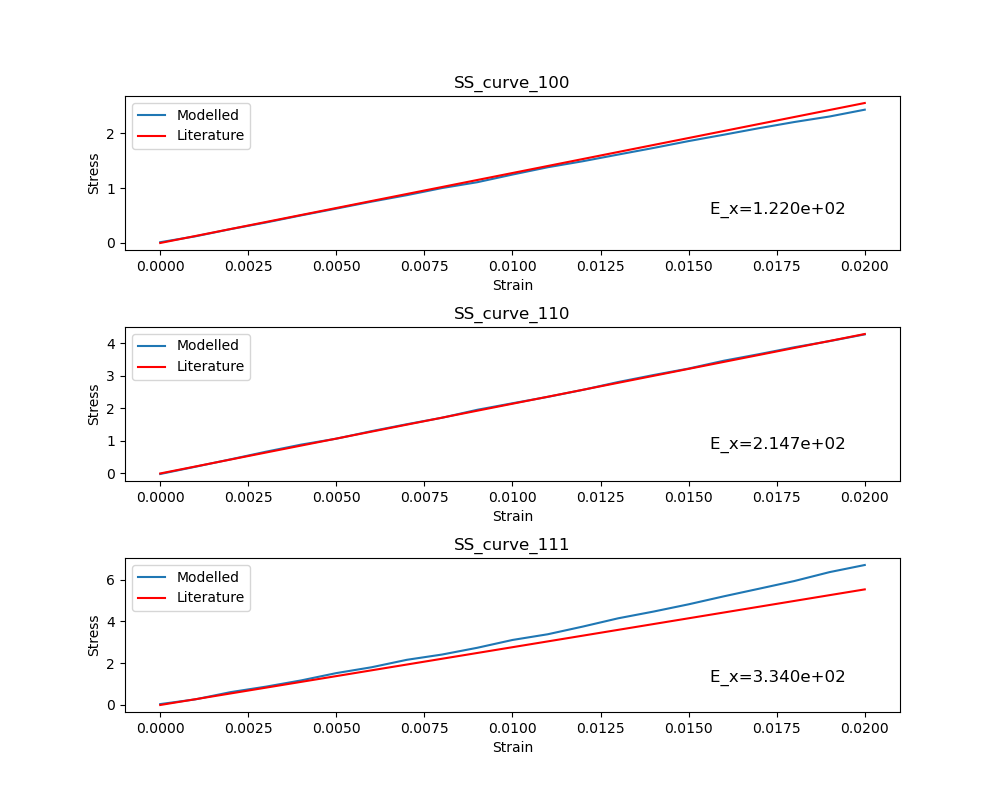
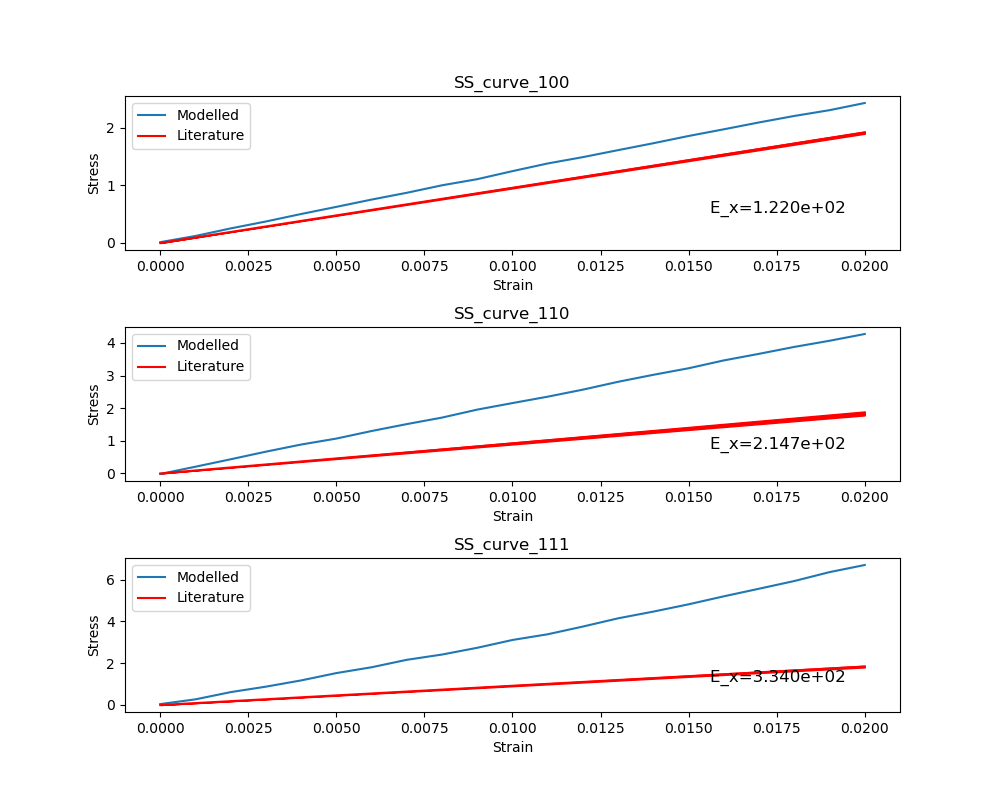
Adding uncertainty and literature values to post processing stress plots

diff --git a/HEA_compression/LMP_Files/Var1/Post_Process_4.py b/HEA_compression/LMP_Files/Var1/Post_Process_4.py
@@ -1,0 +1,119 @@
+### script to post process data
+# plot strain against temperature
+# calculate thermal expansion coeffecient
+
+import numpy as np
+import matplotlib.pyplot as plt
+
+DirPath = './HEA_compression/LMP_Files/Var1/'
+
+def LoadLAMMPSResTxt(filename, dim):
+    # load data
+    with open(filename, 'r') as lmps_file:
+        lmps_data = lmps_file.readlines()
+
+    # print(lmps_data)
+
+    # setting dimensions
+    [rows, columns] = dim
+
+    # create new array for results
+    lmps_table = np.empty((rows-1, columns))
+    for i in range(1,rows):
+        before, sep, after = lmps_data[i].partition(' ')
+        lmps_table[i-1, 0] = before
+        for j in range(1,columns-1):
+            before, sep, after = after.partition(' ')
+            lmps_table[i-1, j] = before
+        lmps_table[i-1, -1] = after
+
+    # print(lmps_table)
+    # create new nested list for titles
+    titles = [None] * columns
+    before, sep, after = lmps_data[0].partition('  ')
+    titles[0] = before
+    for j in range(1,columns-1):
+        before, sep, after = after.partition('  ')
+        titles[j] = before
+    before, sep, after = after.partition('  \n')
+    titles[-1] = before
+    # print(titles)
+    return lmps_table, titles
+
+# Loading all results
+FilePathArr = ['100/SS_curve_100.txt', '110/SS_curve_110.txt', '111/SS_curve_111.txt']
+Figure_Titles = ['SS_curve_100', 'SS_curve_110', 'SS_curve_111']
+numfile = 3
+res_rows = 22
+res_columns = 4
+
+Res_Read = np.empty((numfile, res_rows-1, res_columns)) # minus one to remove title rows
+Res_Col_Titles = titles = [None] * numfile
+for i in range(0, numfile):
+    FilePath = DirPath + FilePathArr[i]
+    Res_Read[i, :, :], Res_Col_Titles[i] = LoadLAMMPSResTxt(FilePath, [res_rows, res_columns])
+
+# getting Young's modulus (gradient)
+m = np.empty((numfile, 1, res_columns-1))
+c = np.empty((numfile, 1, res_columns-1))
+print(m.shape)
+for i in range(0, numfile):
+    for j in range(1,numfile):
+        m[i,0,j-1], c[i,0,j-1] = np.polyfit(Res_Read[i, :, 0], Res_Read[i,:,j], 1)  # 1 means linear fit
+
+print('m: ',m)
+print('c: ',c)
+
+# Create a figure with a numfilex1 grid of subplots
+fig, axs = plt.subplots(numfile, 1, figsize=(10, 8), gridspec_kw={'wspace': 0.5, 'hspace': 0.5})
+
+# looping the plotting
+text_x = 0.015
+text_y = 0.2
+# subscripts
+# for i in range(0, numfile):
+#     axs[i].plot(Res_Read[i, :, 0], Res_Read[i, :, 1:])
+#     axs[i].legend(Res_Col_Titles[i][1:])
+#     # figure titles and axes labels
+#     axs[i].set_title(Figure_Titles[i])
+#     axs[i].set_xlabel('Strain')
+#     axs[i].set_ylabel('Stress')
+#     # adding Young's Mod annotation
+#     label_text = f"""
+#     E_x={m[i,0,0]:.3e}
+#     E_y={m[i,0,1]:.3e}
+#     E_z={m[i,0,2]:.3e}
+#     """
+#     axs[i].text(text_x, text_y, label_text, fontsize=12)
+
+# literature values
+lit_val_HEA_E = np.array([96, 92, 92]) # GPa
+# uncertainty values (+/- xGPa)
+lit_val_HEA_Eu = np.array([1, 3, 2])
+
+
+# for stress x only
+for i in range(0, numfile):
+    axs[i].plot(Res_Read[i, :, 0], Res_Read[i, :, 1])
+    # plot literature values
+    axs[i].plot(Res_Read[i, :, 0], Res_Read[i, :, 0]*lit_val_HEA_E[i],'r')
+    # add shaded uncertainty region
+    axs[i].fill_between(Res_Read[i, :, 0], Res_Read[i, :, 0]*(lit_val_HEA_E[i] - lit_val_HEA_Eu[i]), Res_Read[i, :, 0]*(lit_val_HEA_E[i] + lit_val_HEA_Eu[i]), color = 'r', alpha=0.2)
+    # figure titles and axes labels
+    axs[i].set_title(Figure_Titles[i])
+    axs[i].set_xlabel('Strain')
+    axs[i].set_ylabel('Stress')
+    axs[i].legend(['Modelled', 'Literature'])
+    # adding Young's Mod annotation
+    label_text = f"""
+    E_x={m[i,0,0]:.3e}
+    """
+    axs[i].text(text_x, text_y, label_text, fontsize=12)
+
+
+# save figure
+
+plt.savefig(DirPath + 'results_Var1_Eu.png', format = 'png')
+
+plt.show()
+

diff --git a/HEA_compression/LMP_Files/Var2/Post_Process_4.py b/HEA_compression/LMP_Files/Var2/Post_Process_4.py
@@ -1,0 +1,119 @@
+### script to post process data
+# plot strain against temperature
+# calculate thermal expansion coeffecient
+
+import numpy as np
+import matplotlib.pyplot as plt
+
+DirPath = './HEA_compression/LMP_Files/Var2/'
+
+def LoadLAMMPSResTxt(filename, dim):
+    # load data
+    with open(filename, 'r') as lmps_file:
+        lmps_data = lmps_file.readlines()
+
+    # print(lmps_data)
+
+    # setting dimensions
+    [rows, columns] = dim
+
+    # create new array for results
+    lmps_table = np.empty((rows-1, columns))
+    for i in range(1,rows):
+        before, sep, after = lmps_data[i].partition(' ')
+        lmps_table[i-1, 0] = before
+        for j in range(1,columns-1):
+            before, sep, after = after.partition(' ')
+            lmps_table[i-1, j] = before
+        lmps_table[i-1, -1] = after
+
+    # print(lmps_table)
+    # create new nested list for titles
+    titles = [None] * columns
+    before, sep, after = lmps_data[0].partition('  ')
+    titles[0] = before
+    for j in range(1,columns-1):
+        before, sep, after = after.partition('  ')
+        titles[j] = before
+    before, sep, after = after.partition('  \n')
+    titles[-1] = before
+    # print(titles)
+    return lmps_table, titles
+
+# Loading all results
+FilePathArr = ['100/SS_Curve_100.txt', '110/SS_Curve_110.txt', '111/SS_Curve_111.txt']
+Figure_Titles = ['SS_curve_100', 'SS_curve_110', 'SS_curve_111']
+numfile = 3
+res_rows = 22
+res_columns = 4
+
+Res_Read = np.empty((numfile, res_rows-1, res_columns)) # minus one to remove title rows
+Res_Col_Titles = titles = [None] * numfile
+for i in range(0, numfile):
+    FilePath = DirPath + FilePathArr[i]
+    Res_Read[i, :, :], Res_Col_Titles[i] = LoadLAMMPSResTxt(FilePath, [res_rows, res_columns])
+
+# getting Young's modulus (gradient)
+m = np.empty((numfile, 1, res_columns-1))
+c = np.empty((numfile, 1, res_columns-1))
+print(m.shape)
+for i in range(0, numfile):
+    for j in range(1,numfile):
+        m[i,0,j-1], c[i,0,j-1] = np.polyfit(Res_Read[i, :, 0], Res_Read[i,:,j], 1)  # 1 means linear fit
+
+print('m: ',m)
+print('c: ',c)
+
+# Create a figure with a numfilex1 grid of subplots
+fig, axs = plt.subplots(numfile, 1, figsize=(10, 8), gridspec_kw={'wspace': 0.5, 'hspace': 0.5})
+
+# looping the plotting
+text_x = 0.015
+text_y = 0.2
+# subscripts
+# for i in range(0, numfile):
+#     axs[i].plot(Res_Read[i, :, 0], Res_Read[i, :, 1:])
+#     axs[i].legend(Res_Col_Titles[i][1:])
+#     # figure titles and axes labels
+#     axs[i].set_title(Figure_Titles[i])
+#     axs[i].set_xlabel('Strain')
+#     axs[i].set_ylabel('Stress')
+#     # adding Young's Mod annotation
+#     label_text = f"""
+#     E_x={m[i,0,0]:.3e}
+#     E_y={m[i,0,1]:.3e}
+#     E_z={m[i,0,2]:.3e}
+#     """
+#     axs[i].text(text_x, text_y, label_text, fontsize=12)
+
+# literature values
+lit_val_HEA_E = np.array([96, 92, 92]) # GPa
+# uncertainty values (+/- xGPa)
+lit_val_HEA_Eu = np.array([1, 3, 2])
+
+
+# for stress x only
+for i in range(0, numfile):
+    axs[i].plot(Res_Read[i, :, 0], Res_Read[i, :, 1])
+    # plot literature values
+    axs[i].plot(Res_Read[i, :, 0], Res_Read[i, :, 0]*lit_val_HEA_E[i],'r')
+    # add shaded uncertainty region
+    axs[i].fill_between(Res_Read[i, :, 0], Res_Read[i, :, 0]*(lit_val_HEA_E[i] - lit_val_HEA_Eu[i]), Res_Read[i, :, 0]*(lit_val_HEA_E[i] + lit_val_HEA_Eu[i]), color = 'r', alpha=0.2)
+    # figure titles and axes labels
+    axs[i].set_title(Figure_Titles[i])
+    axs[i].set_xlabel('Strain')
+    axs[i].set_ylabel('Stress')
+    axs[i].legend(['Modelled', 'Literature'])
+    # adding Young's Mod annotation
+    label_text = f"""
+    E_x={m[i,0,0]:.3e}
+    """
+    axs[i].text(text_x, text_y, label_text, fontsize=12)
+
+
+# save figure
+
+plt.savefig(DirPath + 'results_Var2_Eu.png', format = 'png')
+
+plt.show()
+
